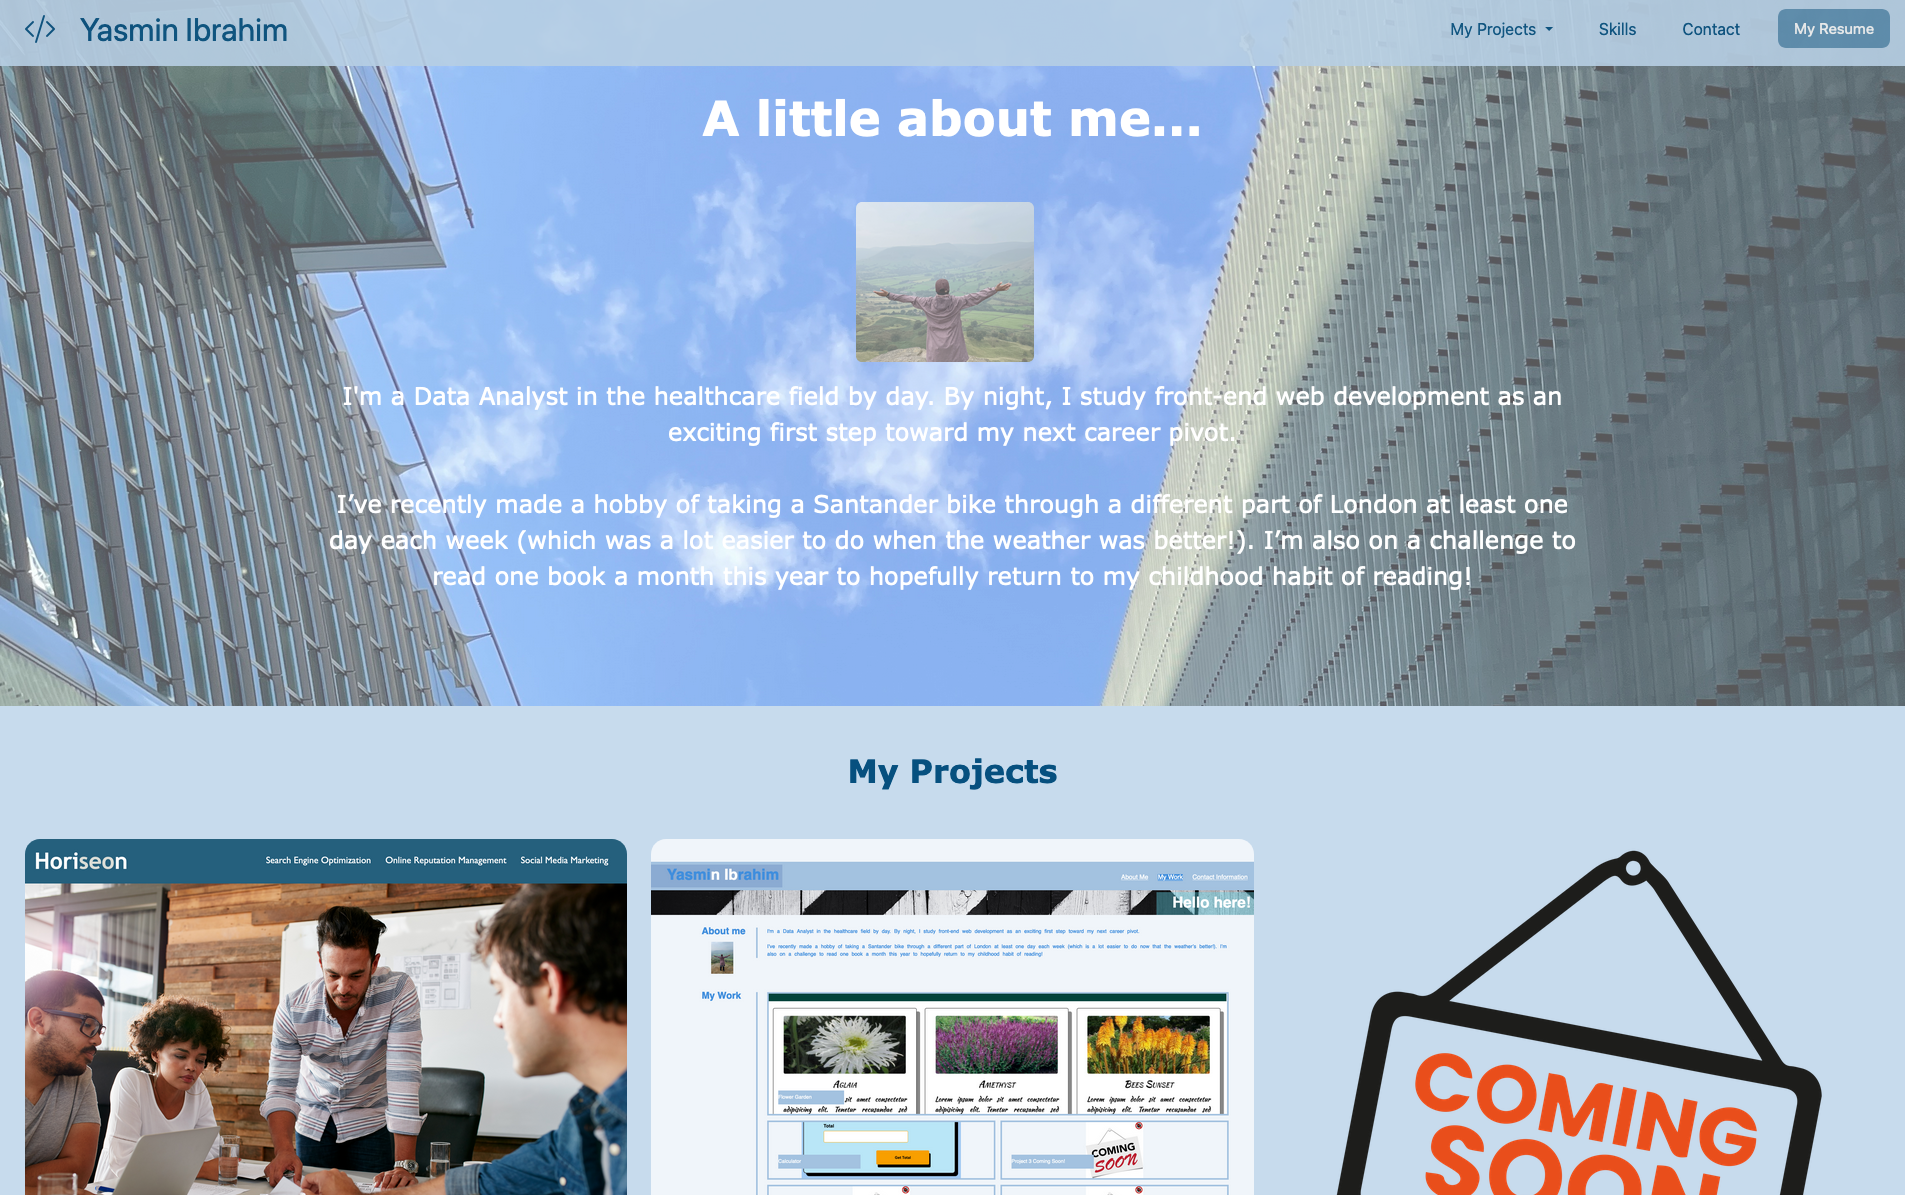
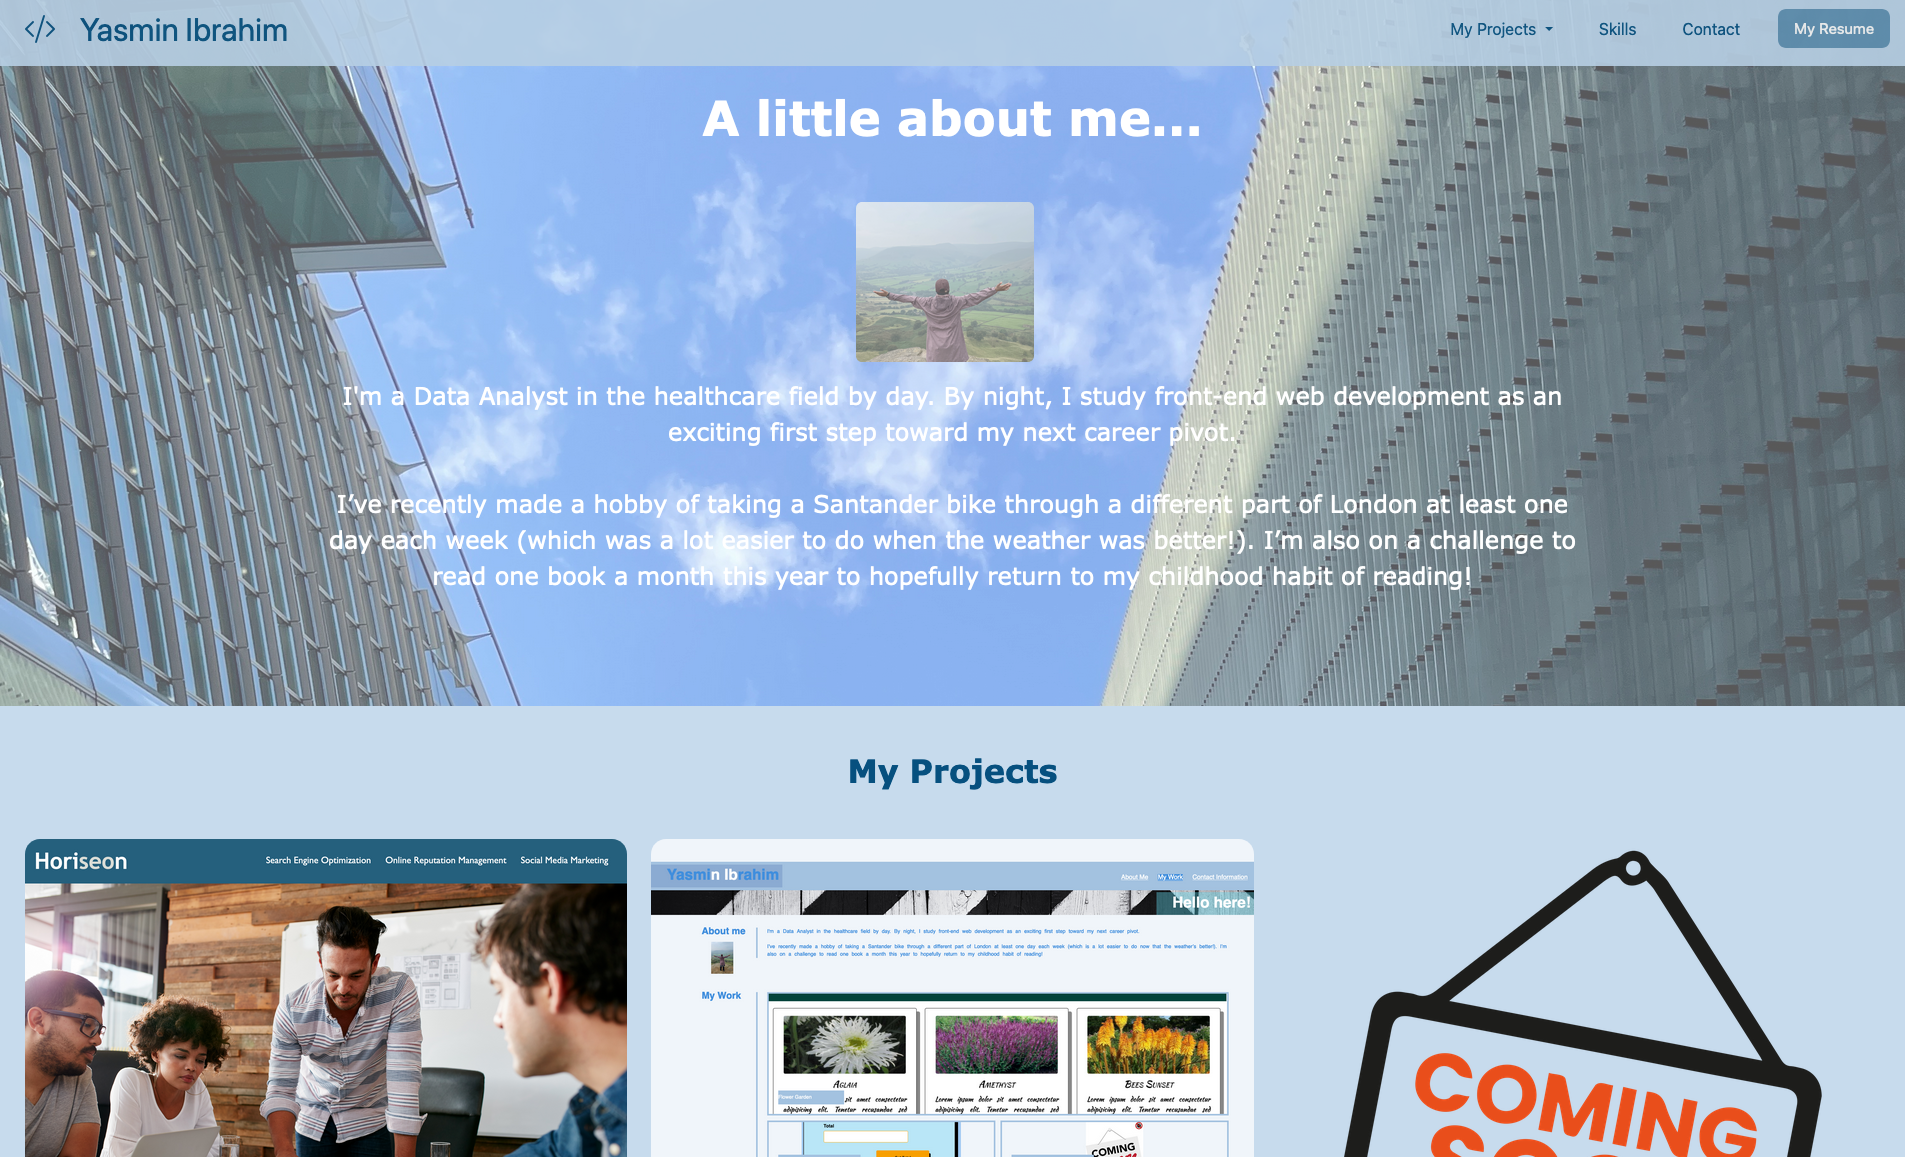
changed design from blue to green. Fixed some css formatting issues. Need to create separate projects page

diff --git a/src/components/style.css b/src/components/style.css
@@ -1,24 +1,38 @@
-/* ROOT - CHANGE LATER */
-:root {
-    --button-color: hsla(203, 91%, 26%, 0.5);
+#title {
+    color: white !important;
 }
 
-.mb-4 {
-    margin-bottom: 0 !important;
+/* ROOT - CHANGE LATER */
+:root {
+    --button-color: rgba(62, 72, 60, 0.9);
+    --button-outline: rgba(83, 96, 80, 0.9);
+}
+
+.row {
+    margin-right: 0 !important;
 }
 
 /* button info */
-.btn-primary,
-.progress-bar {
+.progress-bar, a.btn.btn-primary.btn-md.navCTA {
     --bs-btn-border-color: color: rgba(71, 65, 65, 0.9) !important;
-    --bs-btn-bg: var(--button-color);
-    background-color: var(--button-color);
+    --bs-btn-bg: var(--button-color) !important;
+    background-color: var(--button-color) !important;
     color: whitesmoke !important;
-    --bs-btn-hover-color: rgba(71, 65, 65, 0.9) !important;
-    --bs-btn-hover-bg: hsla(203, 91%, 26%) !important;
+    --bs-btn-bg: var(--button-color) !important;
+}
+
+.btn-primary {
+    --bs-btn-bg: var(--button-color) !important;
+    --bs-btn-border-color:  var(--button-outline) !important;
+}
+
+.btn:hover {
+    --bs-btn-hover-bg: rgba(0, 0, 0, 0.6) !important;
+    --bs-btn-hover-border-color: var(--button-outline) !important;
 }
 
 /* Text */
+hr,
 h1,
 h2,
 h3,
@@ -26,6 +40,7 @@ h4,
 h5,
 h6 {
     font-family: Verdana, Geneva, Tahoma, sans-serif;
+    color: white !important;
 }
 
 h2,
@@ -53,6 +68,10 @@ p {
     --bs-navbar-brand-font-size: 32px !important;
 }
 
+.navbar-toggler {
+    background-color: rgb(79, 93, 77) !important;
+}
+
 .customNav {
     position: fixed;
     width: 100%;
@@ -77,42 +96,52 @@ p {
     margin: 0px 15px;
 }
 
+.navbar-collapse {
+    flex-grow: 0 !important;
+}
+
 /* Navigation dropdown menu */
 .dropdown-menu {
-    background: rgba(183, 207, 228, 0.9);
-    /* background-color: transparent !important; */
-    /* background-size: cover; */
+    background: rgb(77, 88, 75) !important;
 }
+
 
 .dropdown-item:focus,
 .dropdown-item:hover {
     color: #e6d7ff;
     text-decoration: none;
-    background: hsla(221, 91%, 26%, 0.15);
 }
 
 /* Navigation links */
 .customNav a:link,
 .customNav a:visited,
 .customNav a:active {
-    color: hsla(203, 91%, 26%);
+    color: white;
+    background-color: transparent !important;
+}
+
+.nav-link.active,
+.nav-link.show {
+    color: white !important;
+}
+
+.customNav a:hover {
+    color: rgb(0, 0, 0);
+}
+
+.nav-link {
+
+    &.active,
+    &.show {
+        color: black;
+    }
 }
 
 .navCTA {
-    font-size: 15px;
+    font-size: 30px;
 }
 
 /* Jumbotron  */
-
-section.testimonials {
-    padding-top: 7rem;
-    padding-bottom: 7rem;
-}
-
-section.testimonials .testimonial-item {
-    max-width: 18rem;
-}
-
 .img-fluid {
     max-width: 12rem;
     max-height: 10rem;
@@ -125,8 +154,7 @@ section.testimonials .testimonial-item {
 }
 
 .ldnBackground {
-    background-image: url(../images/MyLondon2.JPG);
-    opacity: 0.7;
+    background-image: url(../images/home.png);
     background-size: cover;
     background-repeat: no-repeat;
     /* height: calc(110vh - 25px); */
@@ -160,6 +188,7 @@ section.testimonials .testimonial-item {
 
 .myProjects img {
     border-radius: 15px;
+    opacity: 0.9;
 }
 
 .cardContainer {
@@ -191,12 +220,15 @@ section.testimonials .testimonial-item {
 }
 
 .list-group {
-    --bs-list-group-color: hsla(203, 91%, 26%) !important;
     --bs-list-group-border-color: none !important;
     --bs-list-group-bg: none !important;
     --bs-list-group-bg: url("../images/background-page.png");
     /* the skills background */
     font-size: 25px;
+}
+
+.list-group-item {
+    color: rgb(74, 85, 72) !important;
 }
 
 
@@ -205,7 +237,7 @@ section.testimonials .testimonial-item {
 .contact-section {
     --bs-card-border-color: none !important;
     padding-top: 3rem !important;
-    background: hsla(203, 91%, 26%, 0.5);
+    background: rgb(94, 113, 90, 0.85);
 }
 
 
@@ -216,7 +248,7 @@ section.testimonials .testimonial-item {
 
 
 .contact-section a:link {
-    color: hsla(203, 91%, 26%);
+    color: rgb(68, 78, 66);
 }
 
 .contact-section a {
@@ -226,7 +258,7 @@ section.testimonials .testimonial-item {
 /* EDIT BELOW FROM TRAVEL CALI */
 
 .contact-section .card hr {
-    border-color: hsla(203, 91%, 26%);
+    border-color: whitesmoke;
     border-width: 0.3rem;
     ;
 }
@@ -245,14 +277,14 @@ footer {
     text-align: center;
     /* color: rgba(255, 255, 255, 0.3); */
     color: whitesmoke;
-    background-color: hsla(203, 91%, 26%, 0.9);
+    background-color: rgb(94, 113, 90, 0.9);
 }
 
 /* SOCIALS SECTION */
 
 .social {
     padding: 20px 0 20px 0;
-    background: hsla(203, 91%, 26%, 0.5) !important;
+    background: rgb(94, 113, 90, 0.85) !important;
 
 }
 
@@ -260,7 +292,7 @@ footer {
     text-align: center;
     height: 3rem;
     width: 3rem;
-    background: hsla(203, 91%, 26%, 0.3) !important;
+    background: rgb(94, 113, 90, 0.5) !important;
     border-radius: 100%;
     line-height: 3rem;
     color: rgba(255, 255, 255, 0.8) !important;
@@ -273,4 +305,8 @@ footer {
 
 .social a:active {
     color: #fff !important;
+}
+
+div.my-4 {
+    color: white !important;
 }

diff --git a/src/components/Navbar/Navbar.jsx b/src/components/Navbar/Navbar.jsx
@@ -1,0 +1,46 @@
+import "../style.css";
+
+function Navbar() {
+  return (
+    <nav className="navbar fixed-top navbar-expand-lg bg-body-tertiary customNav back">
+      <div className="container-fluid">
+        <a className="navbar-brand" id="title"><i className="bi bi-code-slash mx-4"></i>Yasmin
+          Ibrahim</a>
+        <button className="navbar-toggler" type="button" data-bs-toggle="collapse" data-bs-target="#navbarSupportedContent"
+          aria-controls="navbarSupportedContent" aria-expanded="false" aria-label="Toggle navigation">
+          <span className="navbar-toggler-icon"></span>
+        </button>
+        <div className="collapse navbar-collapse" id="navbarSupportedContent">
+          <ul className="navbar-nav me-auto mb-2 mb-lg-0">
+            <li className="nav-item dropdown">
+              <a className="nav-link dropdown-toggle" href="#" role="button" data-bs-toggle="dropdown" aria-expanded="false">
+                My Projects
+              </a>
+              <ul className="dropdown-menu">
+                <li><a className="dropdown-item" href="#Horiseon"><i className="bi bi-code-slash mx-4"></i>Horiseon</a></li>
+                <li><a className="dropdown-item" href="#Portfolio"><i className="bi bi-code-slash mx-4"></i>Portfolio (HTML/CSS)</a></li>
+                <li>
+                  <hr className="dropdown-divider"></hr>
+                </li>
+                <li><a className="dropdown-item" href="./deenHub.html"><i className="bi bi-code-slash mx-4"></i>Deen Hub - coming soon!</a></li>
+              </ul>
+            </li>
+            <li className="nav-item">
+              <a className="nav-link" href="#skills">Skills</a>
+            </li>
+            <li className="nav-item">
+              <a className="nav-link" href="#contact">Contact</a>
+            </li>
+            <li className="nav-item">
+              <a className="btn btn-primary btn-md navCTA"
+                href="https://drive.google.com/file/d/1OWqmgGyc8jxAHTfx_i8uYuGAUWjSSlmg/view" target="_blank"
+                role="button"><i className="bi bi-file-earmark-person-fill"></i> My Resume</a>
+            </li>
+          </ul>
+        </div>
+      </div>
+    </nav>
+  );
+}
+
+export default Navbar;

diff --git a/src/components/ProjectCards/project.jsx b/src/components/ProjectCards/project.jsx
@@ -1,17 +1,22 @@
 import "../style.css";
 
+
 function ProjectCard(props) {
   return (
-    <div className="col-lg-6 col-md-6 col-sm-16">
+    <div className="mt-4 col-lg-6 col-md-6 col-sm-16">
       <div className="card">
         <img alt={props.name} src={props.image} className="card-img-top" id={props.name}></img>
-          <div className="card-body">
-            <h3 className="card-title fw-bolder">{props.name}</h3>
-            <br />
-              <h5 className="card-text">{props.description}</h5>
-              <a href={props.link} className="btn btn-primary btn-lg"
-                target="_blank"><i className="bi bi-code-slash mx-2"></i>{props.buttonText}</a>
-          </div>
+        <div className="card-body">
+          <h3 className="card-title fw-bolder">{props.name}</h3>
+          <br />
+          <h5 className="card-text">{props.description}</h5>
+          <br />
+          <a href={props.deployed} className="btn btn-primary btn-lg"
+            target="_blank"><i className="bi bi-code-slash mx-2" role="button"></i>{props.deployedPage}</a>
+          <br />
+          <br />
+          <a href={props.github} className="btn btn-primary btn-lg" target="_blank"><i className="bi bi-code-slash mx-2"></i>{props.githubPage}</a>
+        </div>
       </div>
     </div>
   );

diff --git a/src/components/Contact/contact.jsx b/src/components/Contact/contact.jsx
@@ -11,7 +11,7 @@ function Contact() {
                 <i className="fas fa-map-marked-alt text-primary mb-2"></i>
                 <h3 className="text-uppercase m-0 fw-bolder">Address</h3>
                 <hr className="my-4" />
-                <div className="medium text-black-75">London, United Kingdom </div>
+                <div>London, United Kingdom </div>
               </div>
             </div>
           </div>
@@ -21,7 +21,7 @@ function Contact() {
                 <i className="fas fa-envelope text-primary mb-2"></i>
                 <h3 className="text-uppercase m-0 fw-bolder">Email</h3>
                 <hr className="my-4" />
-                <div className="medium text-black-75">
+                <div>
                   <a href="mailto:yasmin.a.ibrahim@icloud.com">yasmin.project@icloud.com</a>
                 </div>
               </div>
@@ -33,7 +33,7 @@ function Contact() {
                 <i className="fas fa-mobile-alt text-primary mb-2"></i>
                 <h3 className="text-uppercase m-0 fw-bolder">Phone</h3>
                 <hr className="my-4" />
-                <a className="medium text-black-75" href="077 1234 5678">077 1234 5678</a>
+                <a href="077 1234 5678">077 1234 5678</a>
               </div>
             </div>
           </div>

diff --git a/src/App.jsx b/src/App.jsx
@@ -16,7 +16,7 @@ function App() {
       <Jumbotron />
       <div className="row myProjects">
         {projects.map((project) => (
-          <ProjectCard key={project.id} name={project.name} image={project.image} description={project.description} buttonText={project.buttonText} />
+          <ProjectCard key={project.id} name={project.name} image={project.image} description={project.description} github={project.github} deployed={project.deployed} deployedPage={project.deployedPage} githubPage={project.githubPage} />
         ))}
       </div>
       <Skills />

diff --git a/src/components/Jumbotron/Jumbotron.jsx b/src/components/Jumbotron/Jumbotron.jsx
@@ -2,7 +2,7 @@ import "../style.css";
 
 function Jumbotron() {
   return (
-    <div className="p-5 mb-4 bg-body-tertiary ldnBackground">
+    <div className="p-5 bg-body-tertiary ldnBackground background-tint">
       <div className="container-fluid py-5 jumboCopy">
         <h1 className="display-5 fw-bold">A little about me...</h1>
         <div className="d-flex col">

diff --git a/src/components/Skills/skills.jsx b/src/components/Skills/skills.jsx
@@ -3,7 +3,7 @@ import "../style.css";
 function Skills() {
 return (
     <div className="container-fluid content section">
-      <h2 className="sectionHeading fw-bold" id="skills">Skills</h2>
+      <h2 className="sectionHeading fw-bold" id="skills">Web-development skills</h2>
       <div className="row myProjects">
 
         <ul className="list-group">
